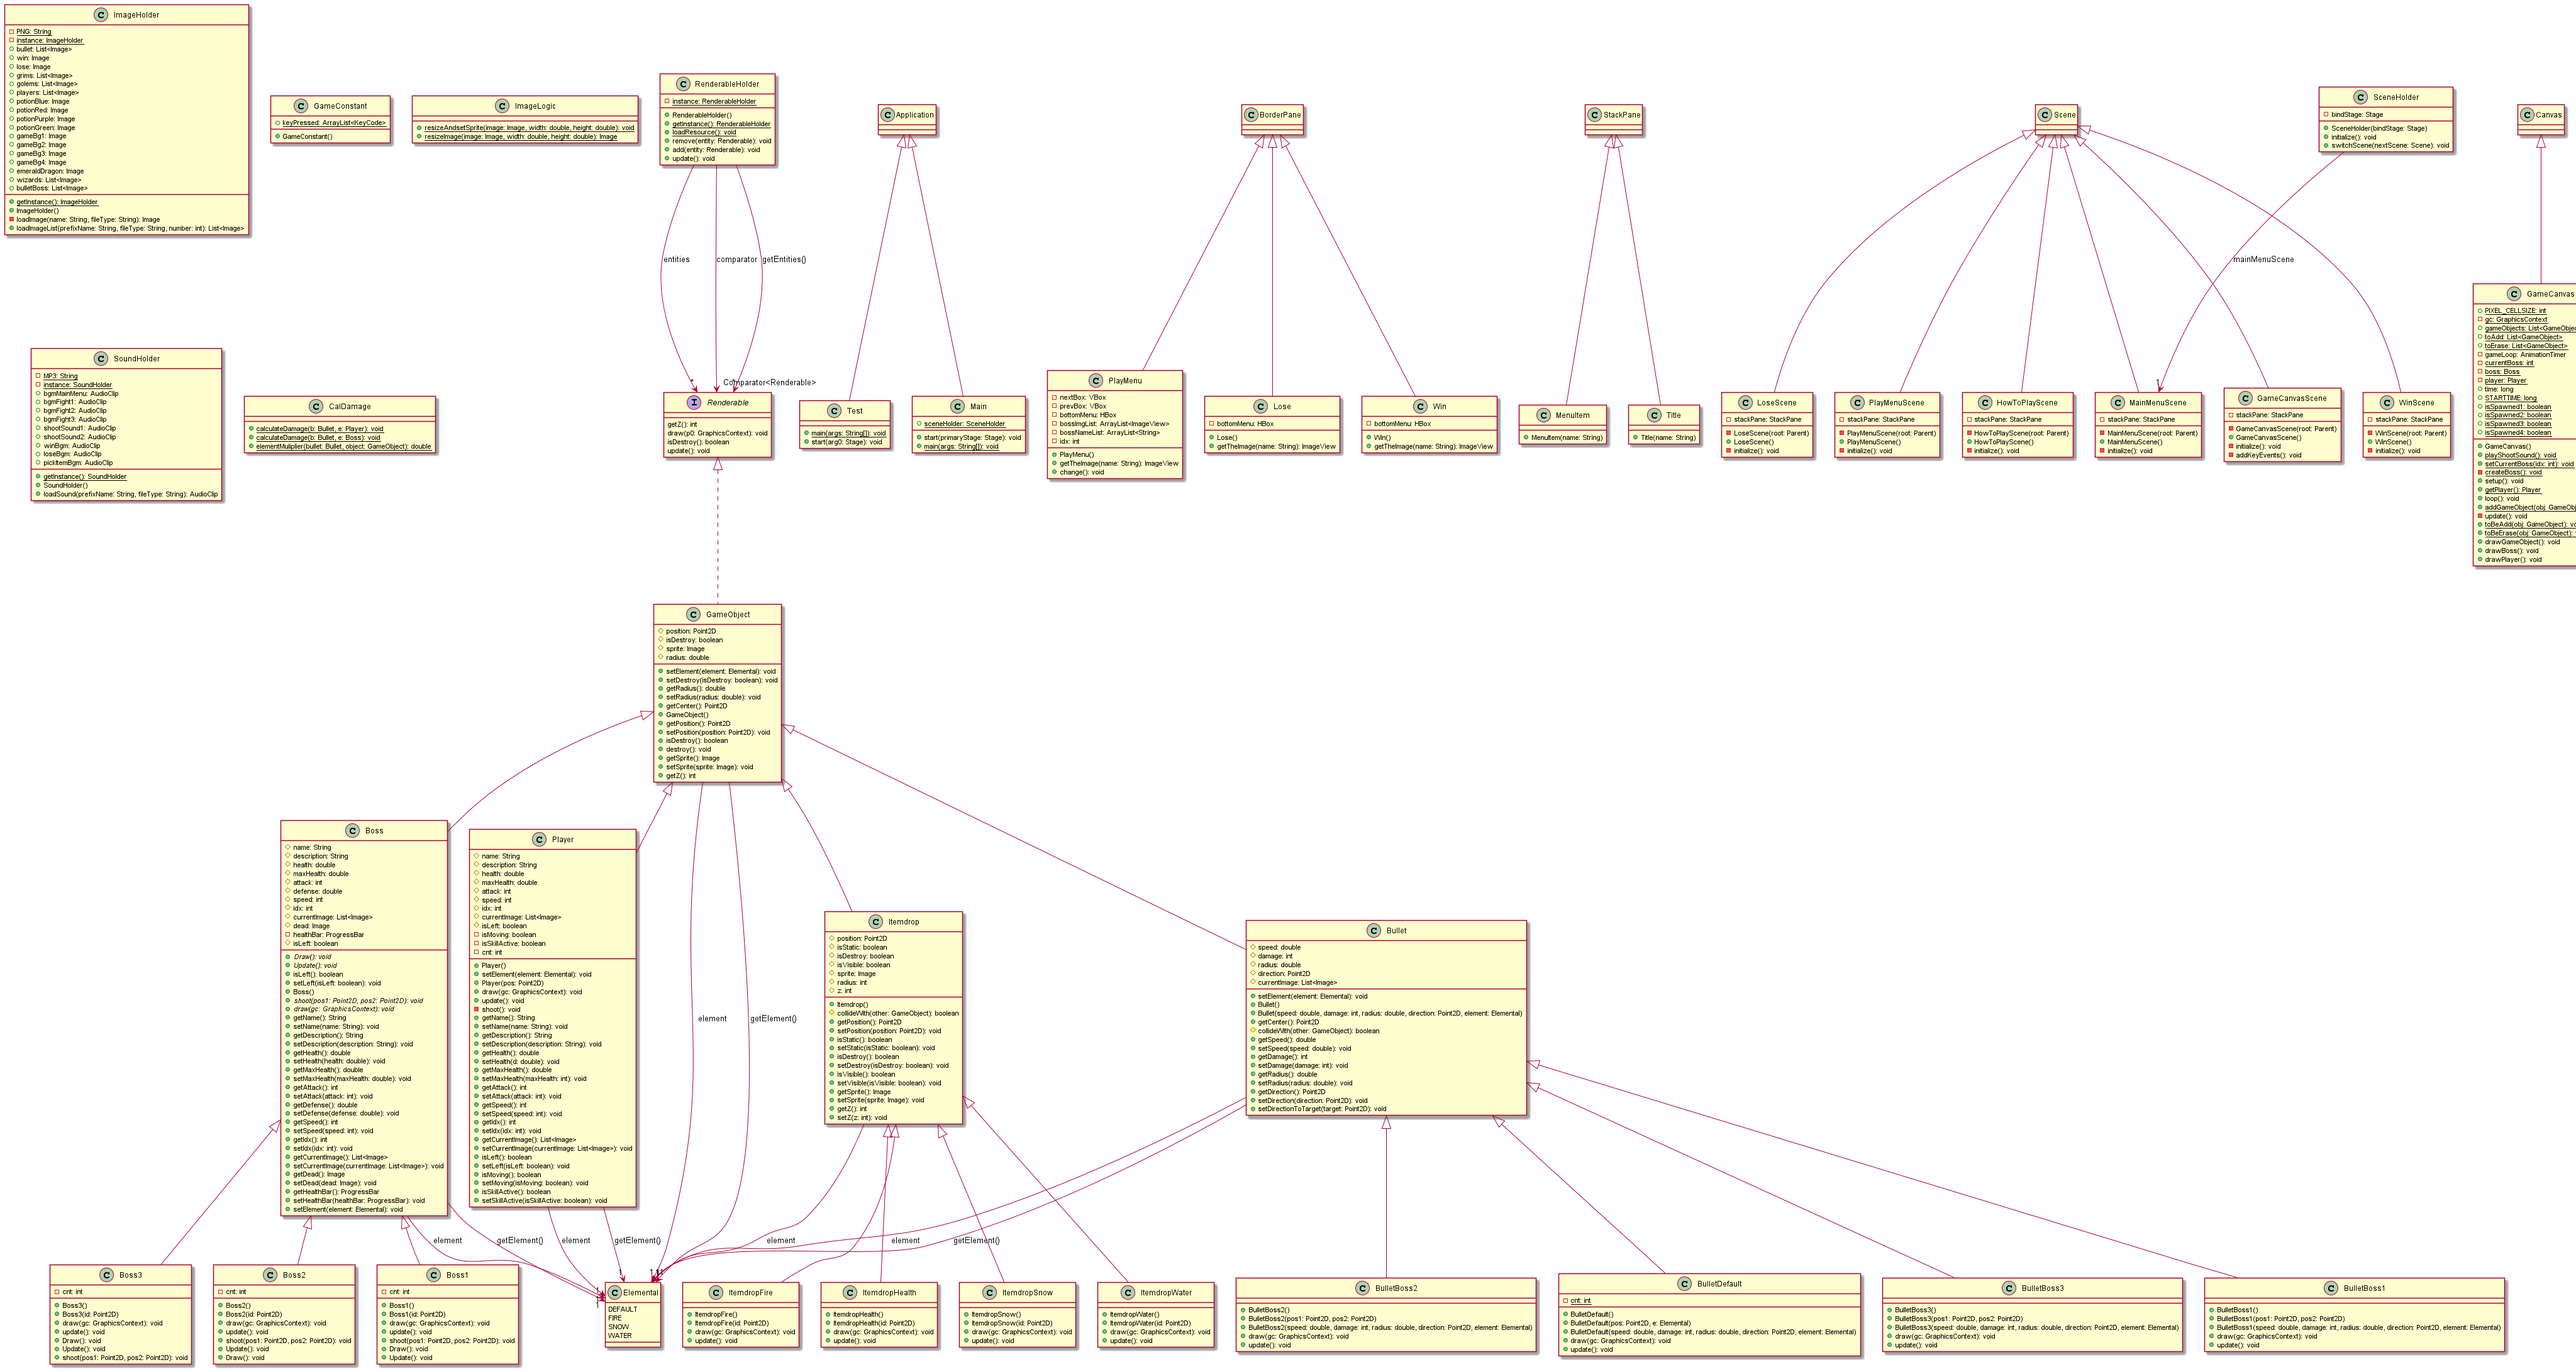
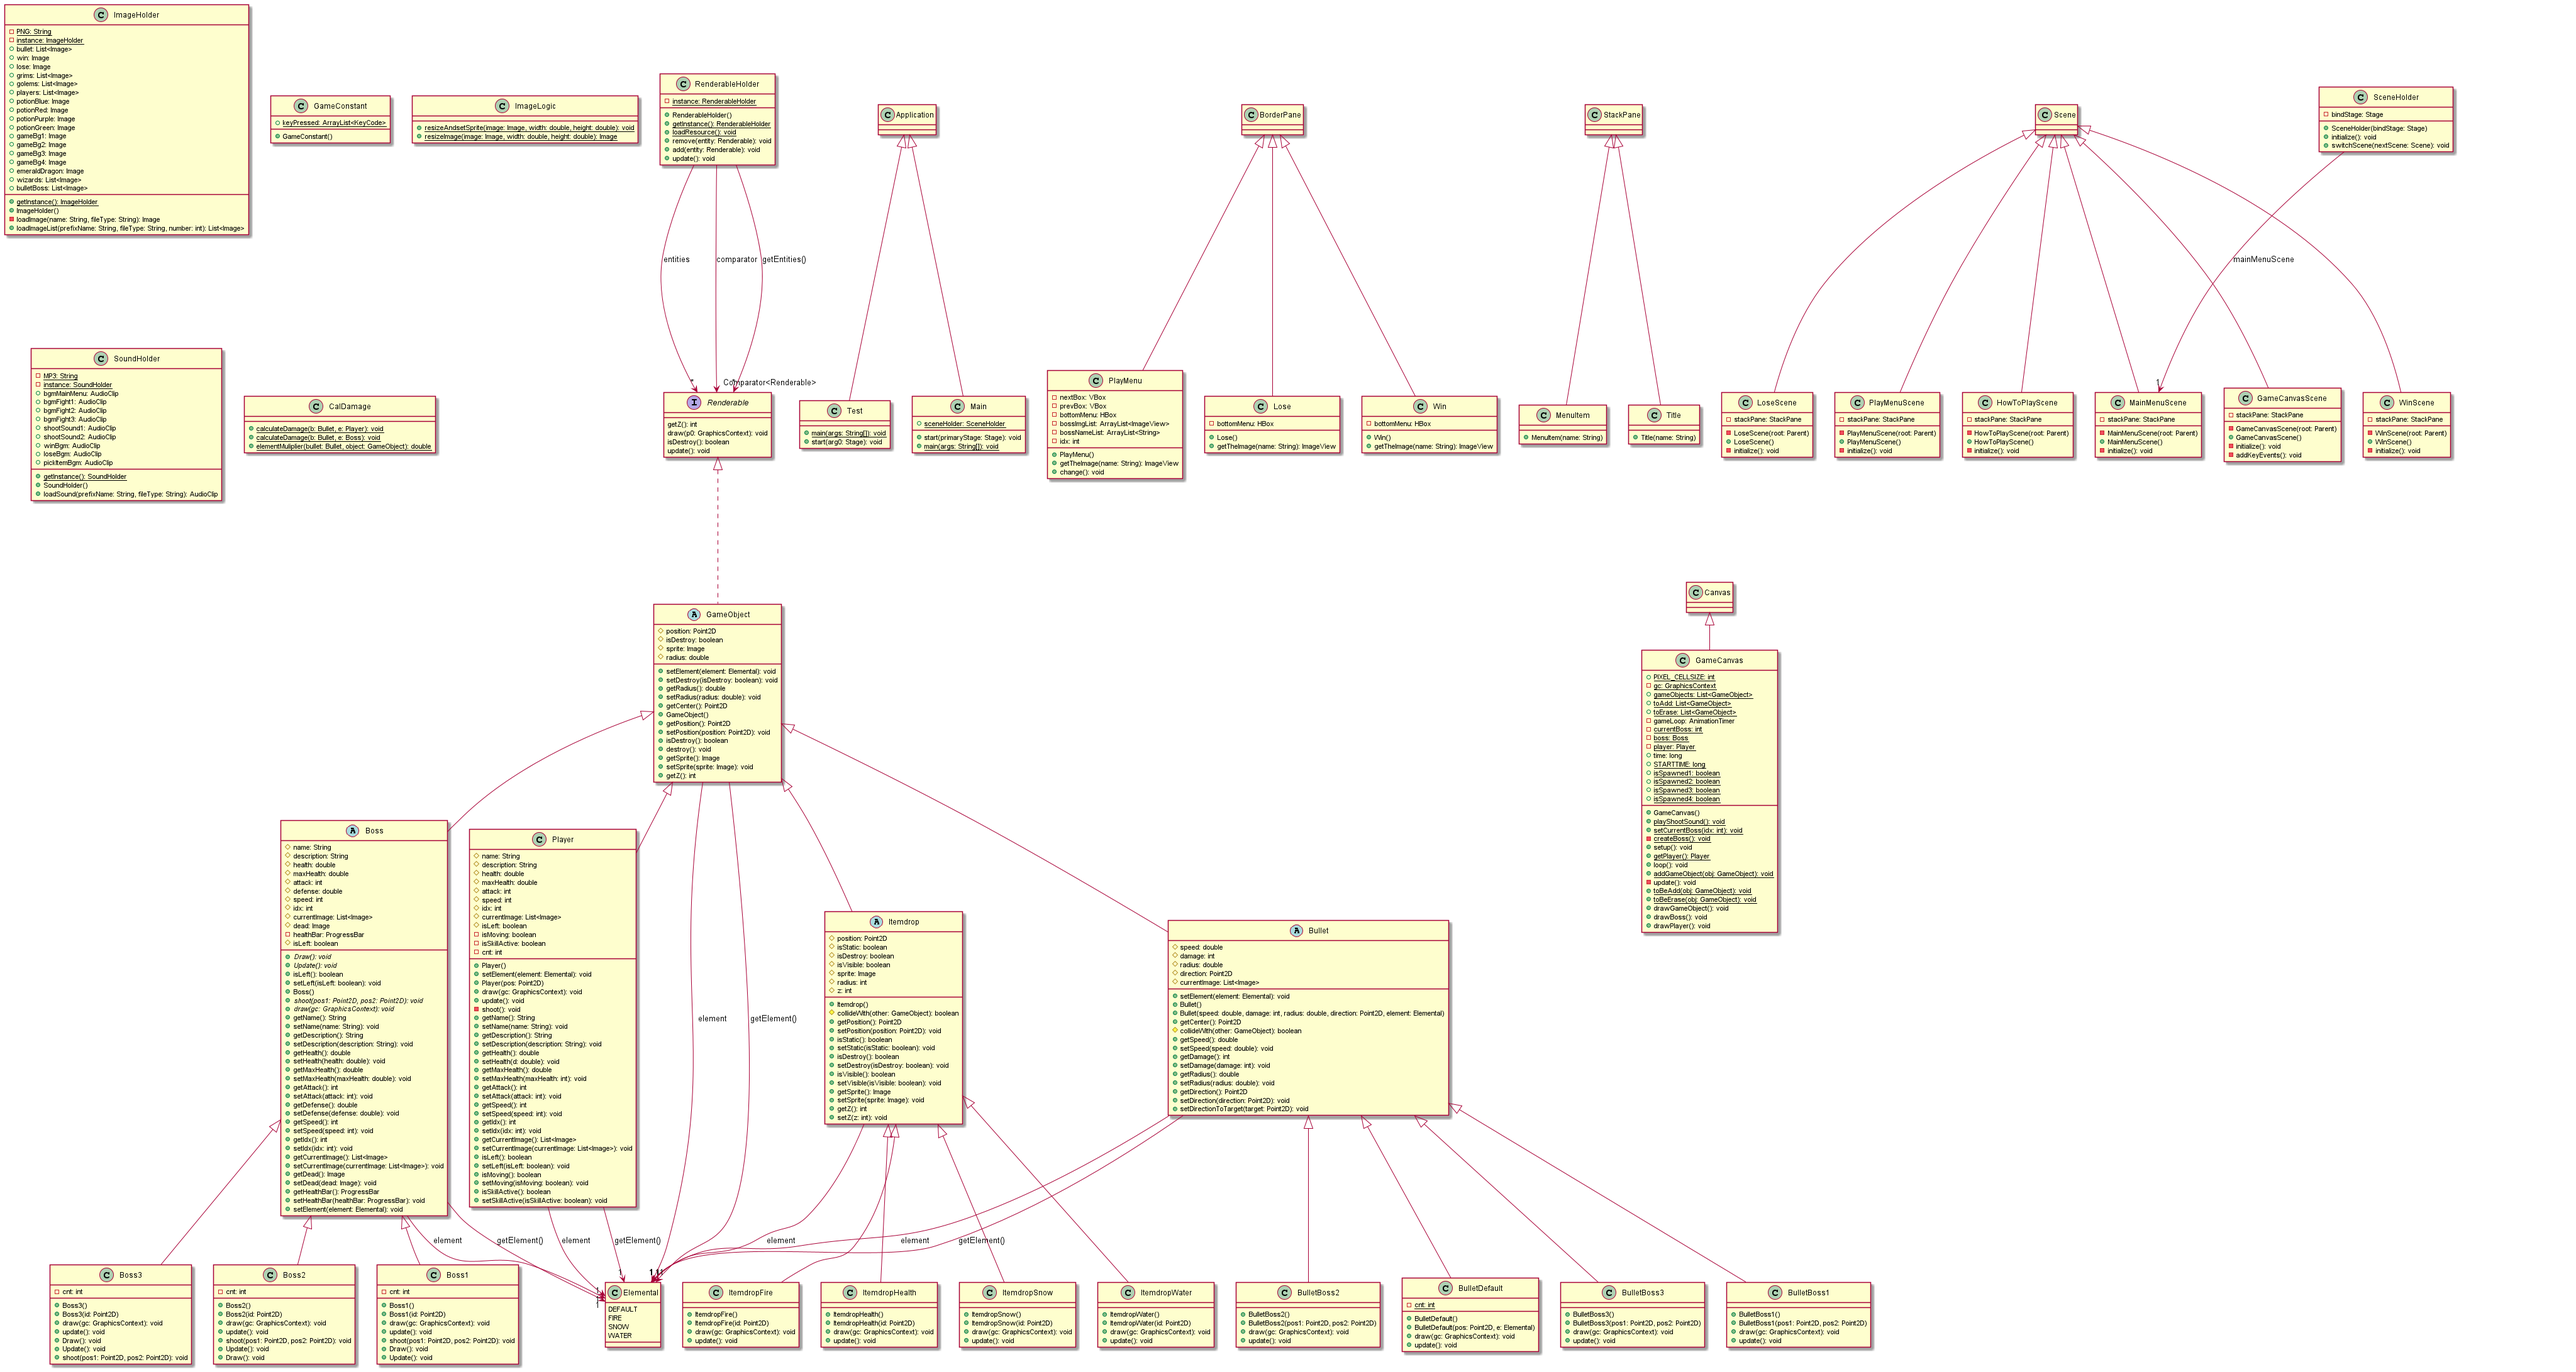
fix Bullet

diff --git a/src/entity/BulletBoss1.java b/src/entity/BulletBoss1.java
@@ -24,11 +24,6 @@ public class BulletBoss1 extends Bullet {
 		this.setDirectionToTarget(pos2);
 	}
 
-	public BulletBoss1(double speed, int damage, double radius, Point2D direction, Elemental element) {
-		super(speed, damage, radius, direction, element);
-		// TODO Auto-generated constructor stub
-	}
-
 	@Override
 	public void draw(GraphicsContext gc) {
 		final double x = this.getPosition().getX();

diff --git a/src/entity/BulletDefault.java b/src/entity/BulletDefault.java
@@ -37,11 +37,6 @@ public class BulletDefault extends Bullet {
 		this.damage = 100;
 	}
 
-	public BulletDefault(double speed, int damage, double radius, Point2D direction, Elemental element) {
-		super(speed, damage, radius, direction, element);
-		// TODO Auto-generated constructor stub
-	}
-
 	@Override
 	public void draw(GraphicsContext gc) {
 		final double x = this.getPosition().getX();

diff --git a/src/entity/BulletBoss2.java b/src/entity/BulletBoss2.java
@@ -24,10 +24,6 @@ public class BulletBoss2 extends Bullet {
 		this.setDirectionToTarget(pos2);
 	}
 
-	public BulletBoss2(double speed, int damage, double radius, Point2D direction, Elemental element) {
-		super(speed, damage, radius, direction, element);
-		// TODO Auto-generated constructor stub
-	}
 
 	@Override
 	public void draw(GraphicsContext gc) {

diff --git a/src/entity/BulletBoss3.java b/src/entity/BulletBoss3.java
@@ -24,10 +24,6 @@ public class BulletBoss3 extends Bullet {
 		this.setDirectionToTarget(pos2);
 	}
 
-	public BulletBoss3(double speed, int damage, double radius, Point2D direction, Elemental element) {
-		super(speed, damage, radius, direction, element);
-		// TODO Auto-generated constructor stub
-	}
 
 	@Override
 	public void draw(GraphicsContext gc) {
